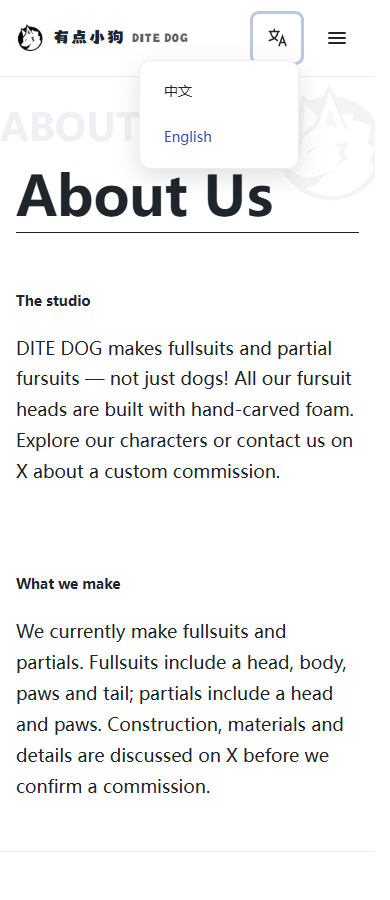
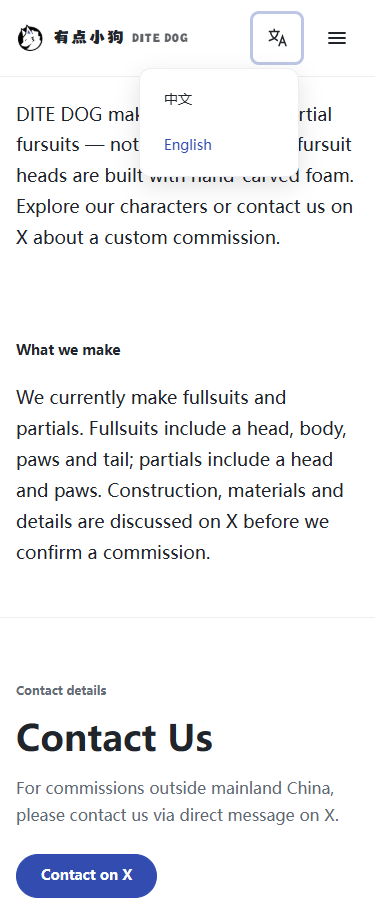
fix: align public dropdown offsets and preserve hover bridge

diff --git a/app/components/PublicLanguageSwitcher.vue b/app/components/PublicLanguageSwitcher.vue
@@ -78,20 +78,22 @@ onBeforeUnmount(() => document.removeEventListener('pointerdown', outside))
         <path d="M3 5h12M9 2v3M5 5c0 6 6 9 8 10M13 5c0 6-6 9-10 10M14 21l4-11 4 11M15.5 17h5" />
       </svg>
     </button>
-    <div v-if="open" id="language-options" class="language-switcher__panel" :aria-busy="changing">
-      <button
-        v-for="option in SITE_LOCALES"
-        :key="option.code"
-        type="button"
-        :lang="option.code"
-        :aria-pressed="language === option.code"
-        :disabled="blocked || changing"
-        @click="choose(option.code)"
-      >
-        <span>{{ option.name }}</span>
-      </button>
-      <p v-if="blocked" role="status">{{ t('language.busy') }}</p>
-      <p v-if="failed" role="alert">{{ t('language.failed') }}</p>
+    <div v-if="open" class="language-switcher__dropdown">
+      <div id="language-options" class="language-switcher__panel" :aria-busy="changing">
+        <button
+          v-for="option in SITE_LOCALES"
+          :key="option.code"
+          type="button"
+          :lang="option.code"
+          :aria-pressed="language === option.code"
+          :disabled="blocked || changing"
+          @click="choose(option.code)"
+        >
+          <span>{{ option.name }}</span>
+        </button>
+        <p v-if="blocked" role="status">{{ t('language.busy') }}</p>
+        <p v-if="failed" role="alert">{{ t('language.failed') }}</p>
+      </div>
     </div>
   </div>
 </template>
@@ -99,7 +101,8 @@ onBeforeUnmount(() => document.removeEventListener('pointerdown', outside))
 <style scoped>
 .language-switcher { position: relative; flex: none; }
 .language-switcher__trigger { display: grid; place-items: center; width: 44px; height: 44px; border: 0; background: transparent; color: inherit; cursor: pointer; }
-.language-switcher__panel { position: absolute; right: 0; top: 100%; width: var(--public-dropdown-width); max-width: calc(100vw - 2rem); padding: 0.5rem; border: 1px solid var(--public-border-secondary); border-radius: var(--radius-md); background: var(--public-bg-primary); color: var(--public-text-primary); box-shadow: 0 8px 24px rgb(0 0 0 / 12%); }
+.language-switcher__dropdown { position: absolute; right: 0; top: 100%; width: var(--public-dropdown-width); max-width: calc(100vw - 2rem); padding-top: var(--space-2); }
+.language-switcher__panel { padding: 0.5rem; border: 1px solid var(--public-border-secondary); border-radius: var(--radius-md); background: var(--public-bg-primary); color: var(--public-text-primary); box-shadow: 0 8px 24px rgb(0 0 0 / 12%); }
 .language-switcher__panel button { display: flex; justify-content: flex-start; align-items: center; width: 100%; min-height: 44px; padding: var(--space-3) var(--space-4); border: 0; background: transparent; color: inherit; font: inherit; font-size: var(--font-size-sm); text-align: left; cursor: pointer; }
 .language-switcher__panel button[aria-pressed='true'] { color: var(--public-accent-primary); }
 .language-switcher__panel button:hover { background: var(--public-bg-secondary); }

diff --git a/tests/smoke/public-i18n.spec.ts b/tests/smoke/public-i18n.spec.ts
@@ -153,8 +153,19 @@ test('language hover and touch toggles, English commission title stays inside it
     await pc.goto(`${publicBaseURL}/commission`)
     const trigger = pc.getByRole('button', { name: 'Choose language', exact: true })
     await expect(trigger).toBeEnabled()
+    const about = pc.getByRole('button', { name: 'About Us', exact: true })
+    await about.hover()
+    const aboutPanel = pc.locator('.public-header__subnav-panel')
+    const aboutTriggerBox = (await about.boundingBox())!
+    await expect.poll(async () => Math.round((await aboutPanel.boundingBox())!.y - aboutTriggerBox.y - aboutTriggerBox.height)).toBe(8)
+    const aboutTop = (await aboutPanel.boundingBox())!.y
     await trigger.hover()
     const menu = pc.locator('#language-options')
+    await expect(menu).toBeVisible()
+    const menuBox = (await menu.boundingBox())!
+    expect(menuBox.y).toBeCloseTo(aboutTop, 0)
+    const triggerBox = (await trigger.boundingBox())!
+    await pc.mouse.move(triggerBox.x + triggerBox.width / 2, triggerBox.y + triggerBox.height + 4)
     await expect(menu).toBeVisible()
     await menu.getByRole('button', { name: '中文', exact: true }).hover()
     await expect(menu).toBeVisible()

diff --git a/app/components/PublicHeader.vue b/app/components/PublicHeader.vue
@@ -330,6 +330,7 @@ onBeforeUnmount(() => {
 }
 
 .public-header__nav-item {
+  display: flex;
   position: relative;
 }
 

diff --git a/agent_docs/需求7-公开站中英切换/requirements/SPEC.md b/agent_docs/需求7-公开站中英切换/requirements/SPEC.md
@@ -50,7 +50,7 @@
 - 可悬停鼠标移入语言区域展开，移出整块图标/面板区域隐藏；移到菜单选项上不提前关闭。触屏点击图标展开或隐藏，键盘激活同样可切换，Escape 关闭并还原焦点。展开右对齐的紧凑面板，只有“中文”“English”两项，标识当前选择；不复制参考图的日语、韩语，也不以国旗代表语言。
 - 首页透明叠加页头与内页页头均须清晰可见；展开面板保证文字对比和层级，不被 Hero 或 overflow 裁切。
 - 窄屏保留可直接访问的右上角入口，与现有移动导航按钮并列，触控目标至少 44×44 CSS px；面板不越过屏幕安全区。不把语言入口仅藏入移动菜单。
-- 支持 Tab、Enter/Space、Escape、外部点击关闭；关闭后焦点返回触发器，当前语言按用户最新要求仅以文字颜色作视觉区分，选项左对齐，菜单宽度与“关于我们”下拉共用同一尺寸、字号统一为 --font-size-sm，不展示勾号；保留 aria-pressed 供读屏识别。图标有随语言变化的可访问名称。
+- 支持 Tab、Enter/Space、Escape、外部点击关闭；关闭后焦点返回触发器，当前语言按用户最新要求仅以文字颜色作视觉区分，选项左对齐，菜单顶部与“关于我们”下拉一致，触发区域下方留白 8px 且间隙可连续悬停；菜单宽度共用同一尺寸、字号统一为 --font-size-sm，不展示勾号；保留 aria-pressed 供读屏识别。图标有随语言变化的可访问名称。
 - 选择当前语言不重置页面。选择其他语言成功后关闭面板；加载失败保留原语言并提供可读反馈，不出现语言 key 原文。
 - 移动导航与语言面板避免相互遮盖；打开一处时妥善关闭另一处，并保持焦点可达。
 

diff --git a/agent_docs/需求7-公开站中英切换/STATE.md b/agent_docs/需求7-公开站中英切换/STATE.md
@@ -16,6 +16,8 @@
 
 ## 最近验证
 
+- 下拉偏移修复：语言菜单增加与关于菜单相同的 8px 留白外层，消除关于按钮 inline 基线造成的容器余量。Chrome 实测两个可见面板顶部一致，指针穿过间隙保持展开；两项公开回归、lint/typecheck 通过。
+
 - PR 收尾：语言 hover/触屏/键盘、英文委托标题 390–1920px 边界与下拉字号一致性通过真实 Chrome 验证；4 项相关浏览器用例及字号后 2 项复验通过。62 份 core 文件共 310 项具备通过证据（图片处理套件超时后独立 21 项复验通过）；本轮未重复 auth-api/health 两个未改动的运行时构建套件。lint/typecheck/build/生产 guard 通过，字号微调后定向 lint 与浏览器复验通过；48 处文档链接通过。
 
 - 2026-09-12 ponytail 冗余审查：全仓引用/重复扫描后清理确认死代码与重复实现，代码净减 669 行（测试净减 509 行），保留原有用例。lint/typecheck/build、329 项 core（唯一过时迁移计数断言修正后定向复验）及 2 项 Chrome smoke 具备通过证据。详见 [冗余审查记录](implementation/notes/2026-09-12-PONYTAIL-REVIEW.md)；不代签独立完整实现 Review。
